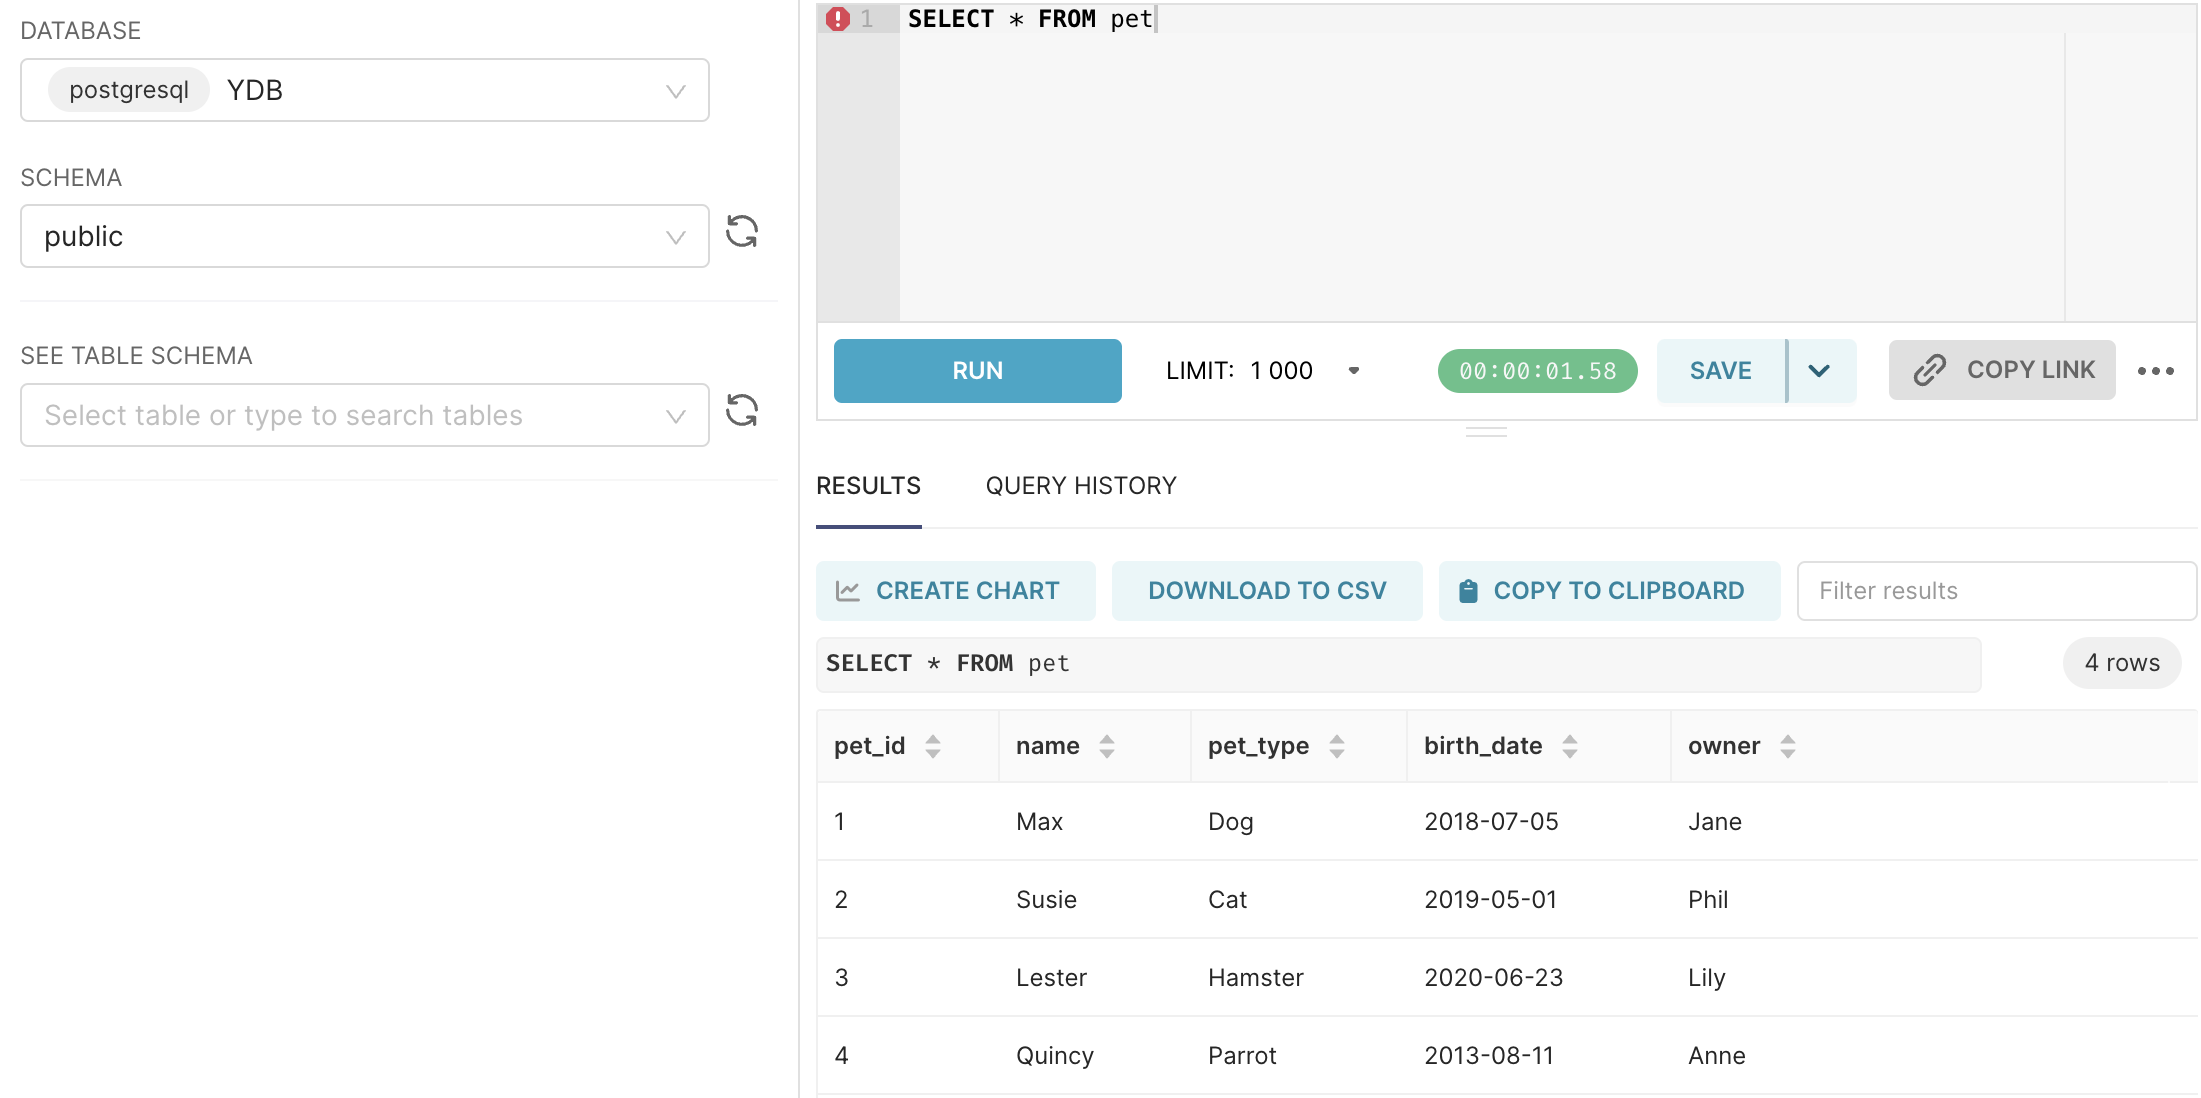
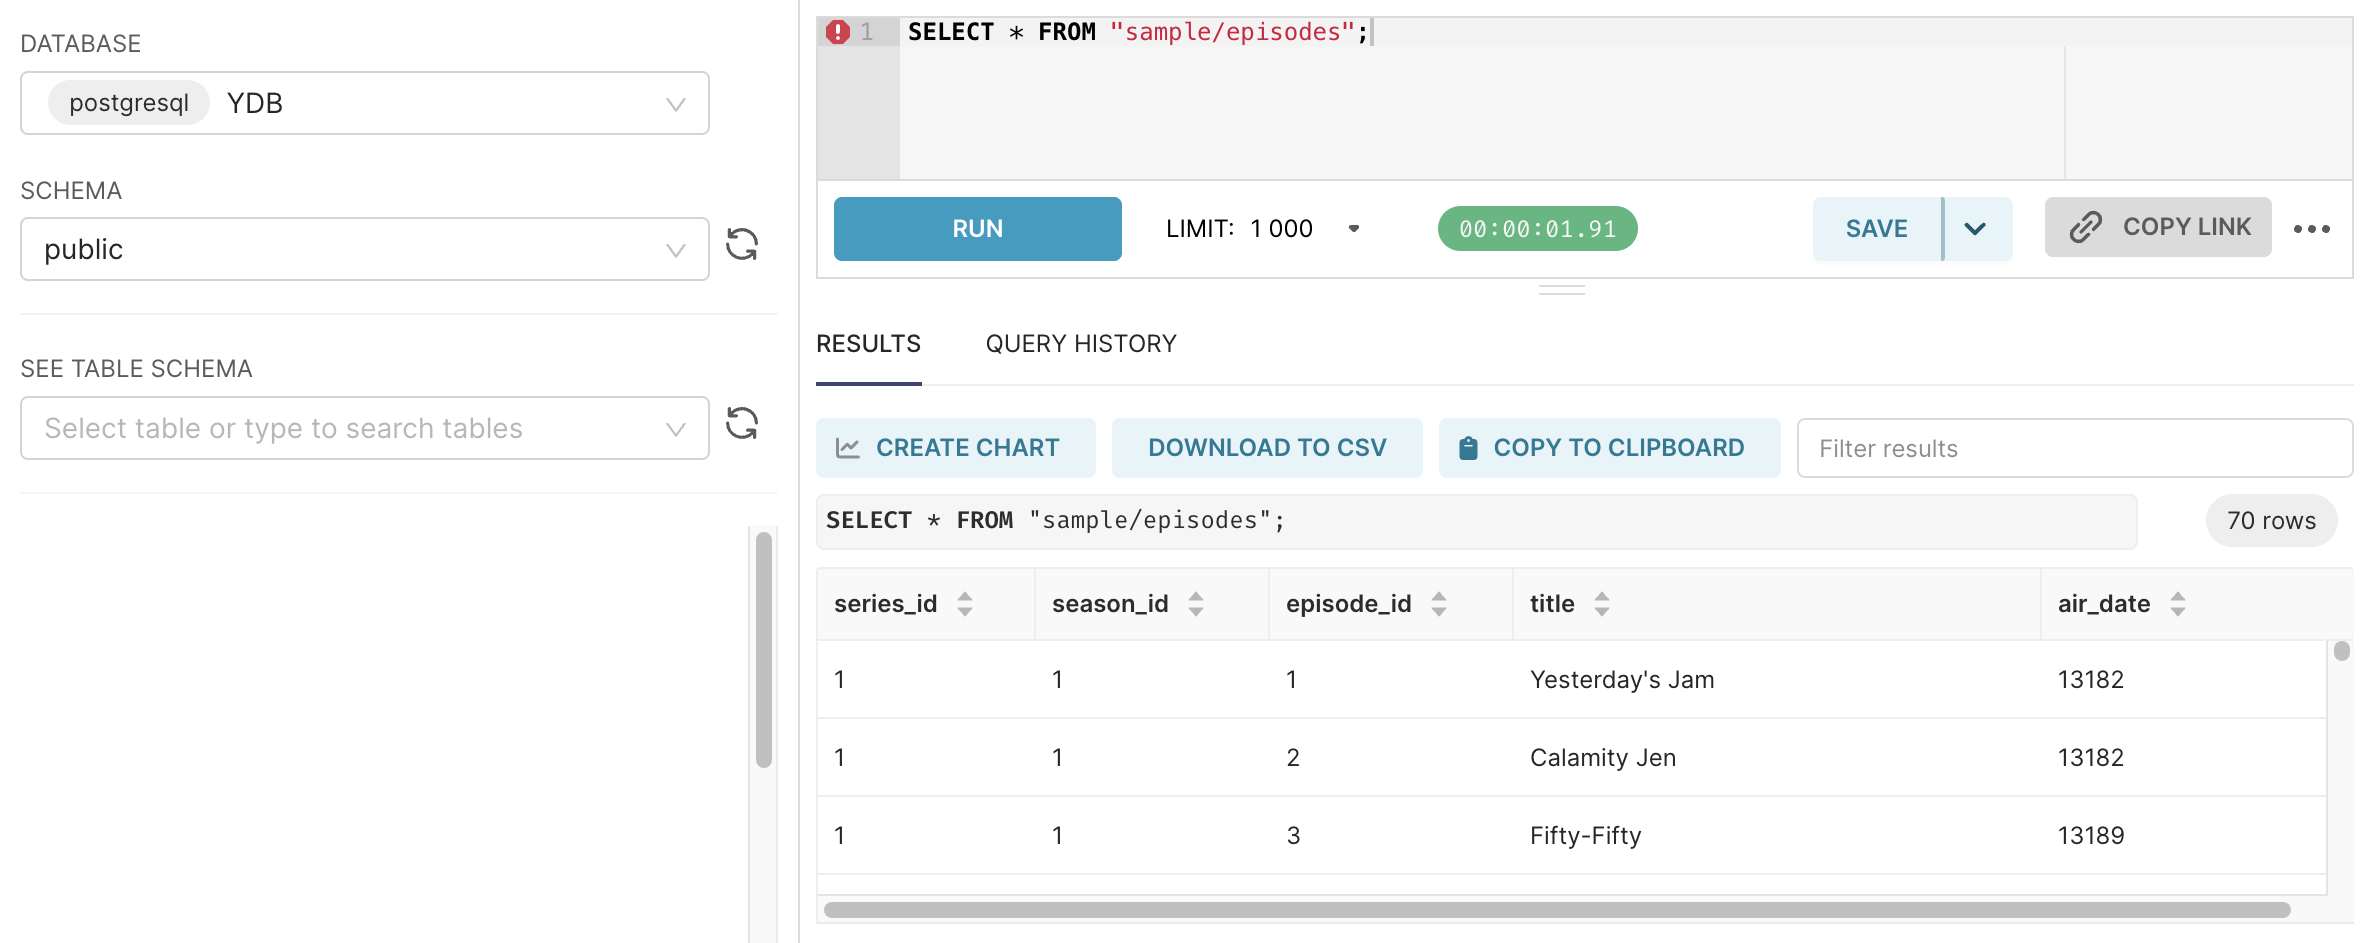
Added a section about creating a sample chart

diff --git a/ydb/docs/ru/core/integrations/visualization/superset.md b/ydb/docs/ru/core/integrations/visualization/superset.md
@@ -4,14 +4,6 @@ Apache Superset — это современная платформа для ан
 
 Поддержка [сетевого протокола PostgreSQL](../../postgresql/intro.md) в {{ ydb-short-name }} позволяет использовать [Apache Superset](https://superset.apache.org/) для выполнения запросов и визуализации данных из {{ ydb-short-name }}.
 
-## Пререквизиты
-
-Для работы понадобятся:
-
-- [Apache Superset](https://superset.apache.org/).
-- PostgreSQL драйвер, установленный в Apache Superset.
-
-  Следуйте [документации Apache Superset](https://superset.apache.org/docs/configuration/databases#installing-database-drivers), чтобы установить драйвер для PostgreSQL.
 
 ## Создание подключения к {{ ydb-short-name }} {#add-database-connection}
 
@@ -19,22 +11,22 @@ Apache Superset — это современная платформа для ан
 
 1. В верхнем меню Apache Superset наведите курсор на **Settings** и выберите в выпадающем списке пункт **Database Connections**.
 
-1. Нажмите кнопку **+ DATABASE**. 
+1. Нажмите кнопку **+ DATABASE**.
 
-   Откроется окно мастера **Connect a database**.
+    Откроется окно мастера **Connect a database**.
 
 1. На первом шаге мастера нажмите кнопку **PostgreSQL**.
 
 1. На втором шаге мастера введите данные для подключения к {{ ydb-short-name }} в следующие поля:
 
-* **HOST** — [эндпоинт](../../concepts/connect.md#endpoint) кластера {{ ydb-short-name }}, к которому осуществляется подключение.
-* **PORT** — порт эндпоинта {{ ydb-short-name }}.
-* **DATABASE NAME** — путь к [базе данных](../../concepts/glossary.md#database) в кластере {{ ydb-short-name }}, к которой будут выполняться запросы.
-* **USERNAME** — логин для подключения к базе данных {{ ydb-short-name }}.
-* **PASSWORD** — пароль для подключения к базе данных {{ ydb-short-name }}.
-* **DISPLAY NAME** — наименование соединения с {{ ydb-short-name }} в Apache Superset.
+    * **HOST** — [эндпоинт](../../concepts/connect.md#endpoint) кластера {{ ydb-short-name }}, к которому осуществляется подключение.
+    * **PORT** — порт эндпоинта {{ ydb-short-name }}.
+    * **DATABASE NAME** — путь к [базе данных](../../concepts/glossary.md#database) в кластере {{ ydb-short-name }}, к которой будут выполняться запросы.
+    * **USERNAME** — логин для подключения к базе данных {{ ydb-short-name }}.
+    * **PASSWORD** — пароль для подключения к базе данных {{ ydb-short-name }}.
+    * **DISPLAY NAME** — наименование соединения с {{ ydb-short-name }} в Apache Superset.
 
-   ![](_assets/superset-ydb-connection-details.png =400x)
+    ![](_assets/superset-ydb-connection-details.png =400x)
 
 1. Нажмите кнопку **CONNECT**.
 
@@ -50,28 +42,77 @@ Apache Superset — это современная платформа для ан
 
 1. В выпадающем меню **SCHEMA** выберите `public`.
 
-   {% note alert %}
+    {% note alert %}
 
-   В настоящее время {{ ydb-short-name }} не предоставляет схемы таблиц через сетевой протокол PostgreSQL. Поэтому выбор таблицы в выпадающем списке **SEE TABLE SCHEMA** можно пропустить.
+    В настоящее время {{ ydb-short-name }} не предоставляет схемы таблиц через сетевой протокол PostgreSQL. Поэтому выбор таблицы в выпадающем списке **SEE TABLE SCHEMA** можно пропустить.
 
-   {% endnote %}
+    {% endnote %}
 
 1. Введите текст SQL-запроса в правой части страницы. Например, `SELECT * FROM <наименование_таблицы>`.
 
-   {% note tip %}
+    {% note tip %}
 
-   Если вы хотите создать набор данных из таблицы, которая расположена в поддиректории {{ ydb-short-name }}, необходимо указать путь к таблице в самом наименовании таблицы. Например, `SELECT * FROM '<путь/к/таблице/наименование_таблицы>'`.
+    Если вы хотите создать набор данных из таблицы, которая расположена в поддиректории {{ ydb-short-name }}, необходимо указать путь к таблице в самом наименовании таблицы. Например:
 
-   {% endnote %}
+    ```yql
+    SELECT * FROM "<путь/к/таблице/наименование_таблицы>";
+    ```
+
+    {% endnote %}
 
 1. Нажмите кнопку **RUN**, чтобы проверить SQL-запрос.
 
-   ![](_assets/superset-sql-query.png)
+    ![](_assets/superset-sql-query.png)
 
 1. Нажмите на стрелку рядом с кнопкой **SAVE** и выберите **Save dataset** в выпадающем списке.
 
-   Откроется диалоговое окно **Save or Overwrite Dataset**.
+    Откроется диалоговое окно **Save or Overwrite Dataset**.
 
 1. В открывшемся окне **Save or Overwrite Dataset** выберите **Save as new**, введите наименование набора данных и нажмите **SAVE & EXPLORE**.
 
 После создания наборов данных вы можете использовать данные из {{ ydb-short-name }} для создания диаграмм в Apache Superset. См. документацию [Apache Superset](https://superset.apache.org/docs/intro/).
+
+## Создание диаграммы {#create-chart}
+
+Теперь давайте создадим пример диаграммы с использованием набора данных из таблицы `episodes`, которая описана в [Туториале по YQL](../../dev/yql-tutorial/index.md).
+
+Таблица `episodes` содержит следующие колонки:
+* series_id;
+* season_id;
+* episode_id;
+* title;
+* air_date.
+
+Предположим, что мы хотим построить круговую диаграмму, в которой бы было видно, сколько серий содержит каждый сезон сериала.
+
+Чтобы создать диаграмму, выполните следующие шаги:
+
+1. В верхнем меню Apache Superset наведите курсор на **+** и выберите в выпадающем списке пункт **Chart**.
+
+1. В выпадающем списке **Choose a dataset**, выберите набор данных из таблицы `episodes`.
+
+1. На панели **Choose chart type**, выберите тип диаграммы `Pie chart`.
+
+1. Нажмите кнопку **CREATE NEW CHART**.
+
+1. На панели **Query** настройте диаграмму:
+
+    * В выпадающем списке **DIMENSIONS** выберите колонку `season_id`.
+
+    * В поле **METRIC** введите функцию `COUNT(title)`.
+
+    * В поле **FILTERS** введите фильтр `series_id in (2)`.
+
+1. Нажмите кнопку **CREATE CHART**.
+
+    Круговая диаграмма появится на панели справа.
+
+    ![](_assets/superset-sample-chart.png)
+
+1. Нажмите кнопку **SAVE**.
+
+    Откроется диалоговое окно **Save chart**.
+
+1. В открывшемся окне **Save chart** в поле **CHART NAME** введите наименование диаграммы.
+
+1. Нажмите кнопку **SAVE**.

diff --git a/ydb/docs/en/core/integrations/visualization/superset.md b/ydb/docs/en/core/integrations/visualization/superset.md
@@ -4,12 +4,6 @@ Apache Superset is a modern data exploration and data visualization platform.
 
 Support for the [PostgreSQL wire protocol](../../postgresql/intro.md) in {{ ydb-short-name }} enables the use of [Apache Superset](https://superset.apache.org/) to query and visualize data from {{ ydb-short-name }}.
 
-## Prerequisites
-
-Before you begin, ensure that the following software is installed:
-
-- [Apache Superset](https://superset.apache.org/)
-- The PostgreSQL driver for Apache Superset. For details on installing the PostgreSQL driver, refer to the [Apache Superset documentation](https://superset.apache.org/docs/configuration/databases#installing-database-drivers).
 
 ## Adding a database connection to {{ ydb-short-name }} {#add-database-connection}
 
@@ -19,25 +13,25 @@ To connect to {{ ydb-short-name }} from Apache Superset using the PostgreSQL wir
 
 1. Click the **+ DATABASE** button.
 
-   The **Connect a database** wizard will appear.
+     The **Connect a database** wizard will appear.
 
 1. In **Step 1** of the wizard, click the **PostgreSQL** button.
 
 1. In **Step 2** of the wizard, enter the {{ ydb-short-name }} credentials in the corresponding fields:
 
-   * **HOST**. The [endpoint](https://ydb.tech/docs/en/concepts/connect#endpoint) of the {{ ydb-short-name }} cluster to which the connection will be made.
+    * **HOST**. The [endpoint](https://ydb.tech/docs/en/concepts/connect#endpoint) of the {{ ydb-short-name }} cluster to which the connection will be made.
 
-   * **PORT**. The port of the {{ ydb-short-name }} endpoint.
+    * **PORT**. The port of the {{ ydb-short-name }} endpoint.
 
-   * **DATABASE NAME**. The path to the [database](../../concepts/glossary.md#database) in the {{ ydb-short-name }} cluster where queries will be executed.
+    * **DATABASE NAME**. The path to the [database](../../concepts/glossary.md#database) in the {{ ydb-short-name }} cluster where queries will be executed.
 
-   * **USERNAME**. The login for connecting to the {{ ydb-short-name }} database.
+    * **USERNAME**. The login for connecting to the {{ ydb-short-name }} database.
 
-   * **PASSWORD**. The password for connecting to the {{ ydb-short-name }} database.
+    * **PASSWORD**. The password for connecting to the {{ ydb-short-name }} database.
 
-   * **DISPLAY NAME**. The { ydb-short-name }} connection name in Apache Superset.
+    * **DISPLAY NAME**. The { ydb-short-name }} connection name in Apache Superset.
 
-   ![](_assets/superset-ydb-connection-details.png =400x)
+    ![](_assets/superset-ydb-connection-details.png =400x)
 
 1. Click **CONNECT**.
 
@@ -53,29 +47,78 @@ To create a dataset for a {{ ydb-short-name }} table, follow these steps:
 
 1. In the **SCHEMA** drop-down list, select `public`.
 
-   {% note alert %}
+    {% note alert %}
 
-  {{ ydb-short-name }} currently does not provide table schema information via the PostgreSQL protocol. You can skip selecting a table in the **SEE TABLE SCHEMA** drop-down list.
+    {{ ydb-short-name }} currently does not provide table schema information via the PostgreSQL protocol. You can skip selecting a table in the **SEE TABLE SCHEMA** drop-down list.
 
-   {% endnote %}
+    {% endnote %}
 
 4. Enter the SQL query in the right section of the page. For example, `SELECT * FROM <ydb_table_name>`.
 
-   {% note tip %}
+    {% note tip %}
 
-   To create a dataset for a table located in a subdirectory of a {{ ydb-short-name }} database, specify the table path in the table name. For example:
-   
-   ```yql
-   SELECT * FROM `<path/to/subdirectory/table_name>`;
+    To create a dataset for a table located in a subdirectory of a {{ ydb-short-name }} database, specify the table path in the table name. For example:
+
+    ```yql
+    SELECT * FROM "<path/to/subdirectory/table_name>";
+    ```
+
+  {% endnote %}
 
 1. Click **RUN** to test the SQL query.
 
-   ![](_assets/superset-sql-query.png)
+    ![](_assets/superset-sql-query.png)
 
 1. Click the down arrow next to the **SAVE** button, then click **Save dataset**.
 
-   The **Save or Overwrite Dataset** dialog box appears.
+    The **Save or Overwrite Dataset** dialog box appears.
 
 1. In the **Save or Overwrite Dataset** dialog box, select **Save as new**, enter the dataset name, and click **SAVE & EXPLORE**.
 
 After creating datasets, you can use data from {{ ydb-short-name }} to create charts in Apache Superset. For more information, refer to the [Apache Superset](https://superset.apache.org/docs/intro/) documentation.
+
+
+## Creating a chart {#create-chart}
+
+Let's create a sample chart with the dataset from the `episodes` table that is described in the [YQL tutorial](../../dev/yql-tutorial/index.md).
+
+The table contains the following columns:
+* series_id
+* season_id
+* episode_id
+* title
+* air_date
+
+Let's say that we want to make a pie chart to show how many episodes each season contains.
+
+To create a chart, follow these steps:
+
+1. In the Apache Superset toolbar, hover over the **+** button and select **Chart**.
+
+1. In the **Choose a dataset** drop-down list, select a dataset for the `episodes` table.
+
+1. In the **Choose chart type** pane, select `Pie chart`.
+
+1. Click **CREATE NEW CHART**.
+
+1. In the **Query** pane, configure the chart:
+
+    * In the **DIMENSIONS** drop-down list, select the `season_id` column.
+
+    * In the **METRIC** field, specify the `COUNT(title)` function.
+
+    * In the **FILTERS** field, specify the `series_id in (2)` filter.
+
+1. Click **CREATE CHART**.
+
+    The pie chart will appear in the preview pane on the right.
+
+    ![](_assets/superset-sample-chart.png)
+
+1. Click **SAVE**.
+
+    The **Save chart** dialog box will appear.
+
+1. In the **Save chart** dialog box, in the **CHART NAME** field, enter the chart name.
+
+1. Click **SAVE**.

diff --git a/ydb/docs/ru/core/integrations/visualization/_includes/toc-table.md b/ydb/docs/ru/core/integrations/visualization/_includes/toc-table.md
@@ -3,13 +3,11 @@
 | Среда | Уровень поддержки  | Инструкция |
 | --- | :---: | --- |
 {% if ydb-datalens %}
+
 | [{{ datalens-name }}](https://datalens.tech/ru) | Полный | [Инструкция](../datalens.md) |
-{% endif %}
-{% if ydb-superset %}
 
+{% endif %}
 | [Apache Superset](https://superset.apache.org) | Через [PostgreSQL-совместимость](../../../postgresql/intro) | [Инструкция](../superset.md) |
-
-{% endif %}
 {% if ydb-finebi %}
 
 | [FineBI](https://intl.finebi.com) | Через [PostgreSQL-совместимость](https://ydb.tech/docs/ru/postgresql/intro) | [Инструкция](./finebi.md) |
